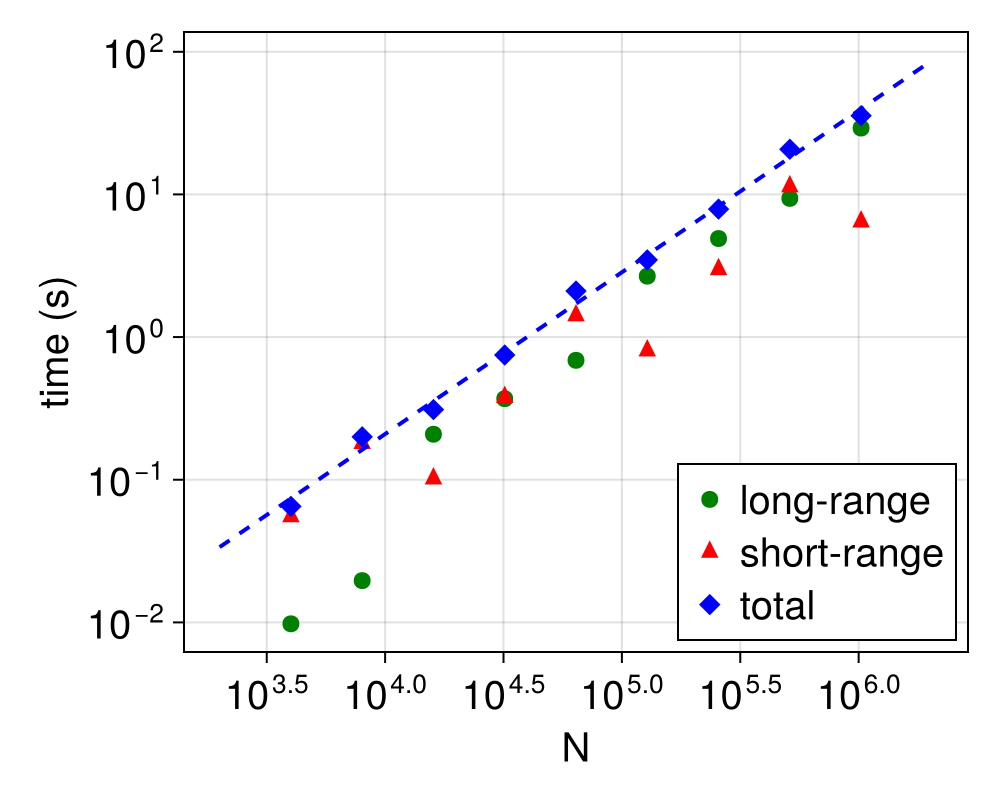
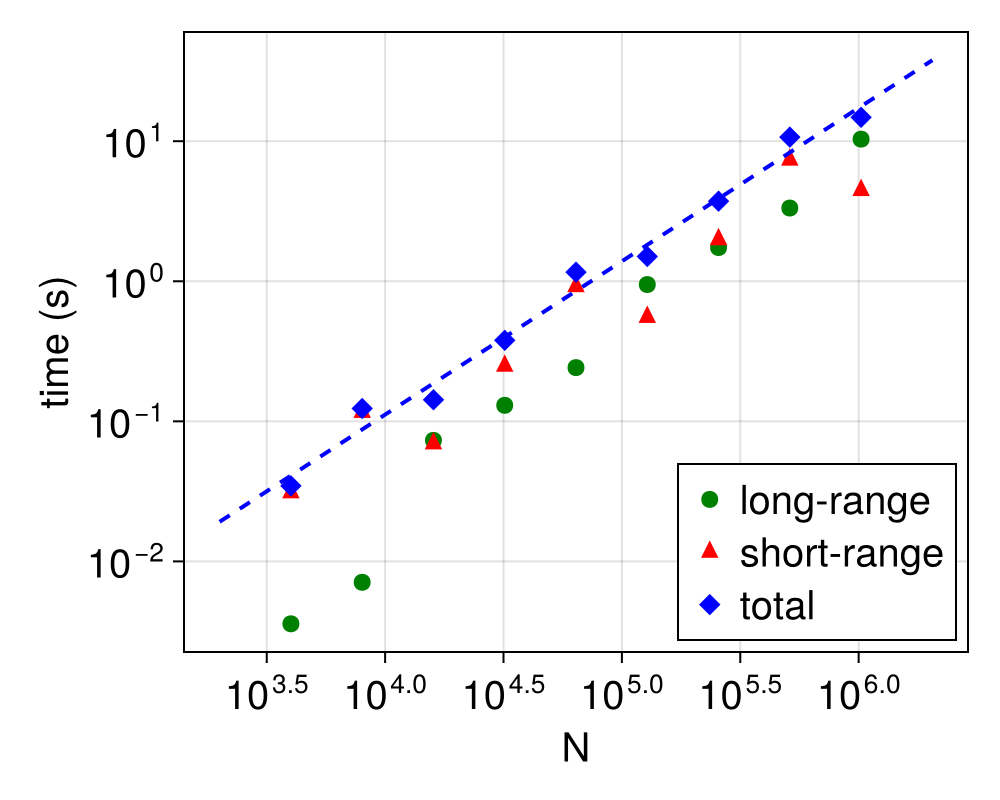
update results

diff --git a/test/hpdmk_test.cpp b/test/hpdmk_test.cpp
@@ -14,10 +14,12 @@
 
 using namespace hpdmk;
 
+
+
 void compare_direct() {
     HPDMKParams params;
     params.n_per_leaf = 5;
-    params.eps = 1e-8;
+    params.eps = 1e-4;
     params.L = 100.0;
 
     omp_set_num_threads(16);
@@ -26,14 +28,21 @@ void compare_direct() {
     sctl::Vector<double> r_src_vec(n_src * 3);
     sctl::Vector<double> charge_vec(n_src);
 
+    std::vector<double> r_src(n_src * 3);
+    std::vector<double> charge(n_src);
+
     std::mt19937 generator;
     std::uniform_real_distribution<double> distribution(0, params.L);
 
     for (int i = 0; i < n_src; i++) {
-        r_src_vec[i * 3] = distribution(generator);
-        r_src_vec[i * 3 + 1] = distribution(generator);
-        r_src_vec[i * 3 + 2] = distribution(generator);
+        r_src[i * 3] = distribution(generator);
+        r_src_vec[i * 3] = r_src[i * 3];
+        r_src[i * 3 + 1] = distribution(generator);
+        r_src_vec[i * 3 + 1] = r_src[i * 3 + 1];
+        r_src[i * 3 + 2] = distribution(generator);
+        r_src_vec[i * 3 + 2] = r_src[i * 3 + 2];
         charge_vec[i] = std::pow(-1, i) * 1.0;
+        charge[i] = charge_vec[i];
     }
 
     const sctl::Comm sctl_comm(MPI_COMM_WORLD);
@@ -49,9 +58,9 @@ void compare_direct() {
     double E_difference_direct = tree.difference_energy_direct();
     double E_residual_direct = tree.residual_energy_direct();
 
-    ASSERT_NEAR(E_window, E_window_direct, 1e-6);
-    ASSERT_NEAR(E_difference, E_difference_direct, 1e-6);
-    ASSERT_NEAR(E_residual, E_residual_direct, 1e-6);
+    ASSERT_NEAR(E_window, E_window_direct, 1e-3);
+    ASSERT_NEAR(E_difference, E_difference_direct, 1e-3);
+    ASSERT_NEAR(E_residual, E_residual_direct, 1e-3);
 
     int nrounds = 10;
     for (int i = 0; i < nrounds; i++) {
@@ -68,16 +77,16 @@ void compare_direct() {
         double p_difference_direct = tree.potential_target_difference_direct(trg_x, trg_y, trg_z);
         double p_residual_direct = tree.potential_target_residual_direct(trg_x, trg_y, trg_z);
 
-        ASSERT_NEAR(p_window, p_window_direct, 1e-6);
-        ASSERT_NEAR(p_difference, p_difference_direct, 1e-6);
-        ASSERT_NEAR(p_residual, p_residual_direct, 1e-6);
+        ASSERT_NEAR(p_window, p_window_direct, 1e-3);
+        ASSERT_NEAR(p_difference, p_difference_direct, 1e-3);
+        ASSERT_NEAR(p_residual, p_residual_direct, 1e-3);
     }
 }
 
 void compare_ewald() {
     HPDMKParams params;
     params.n_per_leaf = 20;
-    params.eps = 1e-8;
+    params.eps = 1e-4;
     params.L = 100.0;
 
     omp_set_num_threads(16);
@@ -110,10 +119,10 @@ void compare_ewald() {
 
     double E_hpdmk = tree.energy();
 
-    hpdmk::Ewald ewald(100.0, 4.0, 0.5, 1.0, charge, r_src, n_src);
+    hpdmk::Ewald ewald(100.0, 3.0, 0.5, 1.0, charge, r_src, n_src);
     double E_ewald = ewald.compute_energy();
 
-    ASSERT_NEAR(E_hpdmk, E_ewald, 1e-6);
+    ASSERT_NEAR(E_hpdmk, E_ewald, 1e-3);
 
     int nrounds = 10;
     for (int i = 0; i < nrounds; i++) {
@@ -126,7 +135,7 @@ void compare_ewald() {
 
         double p_ewald = ewald.compute_potential(trg_x, trg_y, trg_z);
 
-        ASSERT_NEAR(p_hpdmk, p_ewald, 1e-6);
+        ASSERT_NEAR(p_hpdmk, p_ewald, 1e-3);
     }
 }
 

diff --git a/src/energy.cpp b/src/energy.cpp
@@ -2,6 +2,7 @@
 #include <tree.hpp>
 #include <kernels.hpp>
 #include <utils.hpp>
+#include <pswf.hpp>
 
 #include <vector>
 #include <array>
@@ -40,8 +41,8 @@ namespace hpdmk {
         energy *= 1 / (2 * std::pow(2*M_PI, 3)) * std::pow(delta_k[0], 3);
 
         // self energy
-        Real sigma = sigmas[2];
-        Real self_energy = Q / (std::sqrt(M_PI) * sigma);
+        Real r_c = boxsize[2];
+        Real self_energy = Q * prolate0_eval(c, 0) / (2 * r_c * C0);
         energy -= self_energy;
 
         return energy;
@@ -90,13 +91,13 @@ namespace hpdmk {
         energy *= 1 / (2 * std::pow(2*M_PI, 3)) * std::pow(delta_k[i_depth], 3);
 
         // self energy
-        Real sigma = sigmas[i_depth];
-        Real sigma_lp1 = sigmas[i_depth + 1];
+        Real boxsize_l = boxsize[i_depth];
+        Real boxsize_lp1 = boxsize[i_depth + 1];
         Real Q_node = 0;
         for (auto i_particle : node_particles[i_node]) {
             Q_node += charge_sorted[i_particle] * charge_sorted[i_particle];
         }
-        Real self_energy = Q_node * (1 / (std::sqrt(M_PI) * sigma_lp1) - 1 / (std::sqrt(M_PI) * sigma));
+        Real self_energy = Q_node * prolate0_eval(c, 0) * (1 / (2 * boxsize_lp1 * C0) - 1 / (2 * boxsize_l * C0));
         energy -= self_energy;
 
         return energy;

diff --git a/include/kernels.hpp b/include/kernels.hpp
@@ -35,7 +35,7 @@ namespace hpdmk {
 
         Real window;
         if (k2 == 0){
-            window = diff * (k_scaled_lp1 * k_scaled_lp1 - k_scaled_l * k_scaled_l);
+            window = diff * (sigma_lp1 * sigma_lp1 - sigma_l * sigma_l);
         } else {
             window = (fourier_poly.eval(k_scaled_lp1) - fourier_poly.eval(k_scaled_l)) / k2;
         }
@@ -45,7 +45,7 @@ namespace hpdmk {
 
     template <typename Real>
     inline Real difference_kernel_direct(Real r, PolyFun<Real> &real_poly, Real cutoff_l, Real cutoff_lp1){
-        Real difference = (real_poly.eval(r / cutoff_lp1) - real_poly.eval(r / cutoff_l)) / r;
+        Real difference = - (real_poly.eval(r / cutoff_lp1) - real_poly.eval(r / cutoff_l)) / r;
         return difference;
     }
  

diff --git a/src/energy_direct.cpp b/src/energy_direct.cpp
@@ -3,6 +3,7 @@
 #include <tree.hpp>
 #include <kernels.hpp>
 #include <utils.hpp>
+#include <pswf.hpp>
 
 #include <vector>
 #include <array>
@@ -52,7 +53,7 @@ namespace hpdmk {
         energy *= 1 / (2 * std::pow(2*M_PI, 3)) * std::pow(delta_k0, 3);
 
         // zeroth order term
-        Real self_energy = Q / (std::sqrt(M_PI) * sigma);
+        Real self_energy = Q * prolate0_eval(c, 0) / (2 * boxsize[2] * C0);
         energy -= self_energy;
 
         return energy;

diff --git a/src/tree.cpp b/src/tree.cpp
@@ -41,7 +41,7 @@ namespace hpdmk {
 
         // for level 2 and above, the kernel is (int_prolate0(r / (L/2^(i + 1))) - int_prolate0(r / (L/2^i))) / r
         for (int i = 2; i < max_depth + 1; ++i) {
-            k_max[i] = c / boxsize[i];
+            k_max[i] = 2 * c / boxsize[i];
             delta_k[i] = 2 * M_PI / (3 * boxsize[i]);
             n_k[i] = std::ceil(k_max[i] / delta_k[i]);
         }
